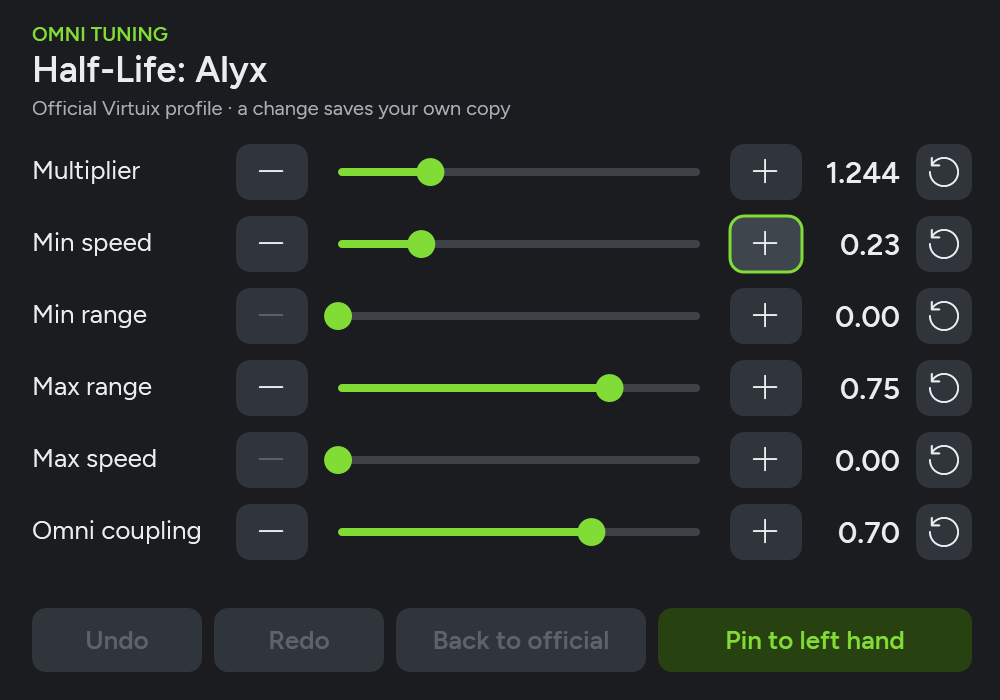
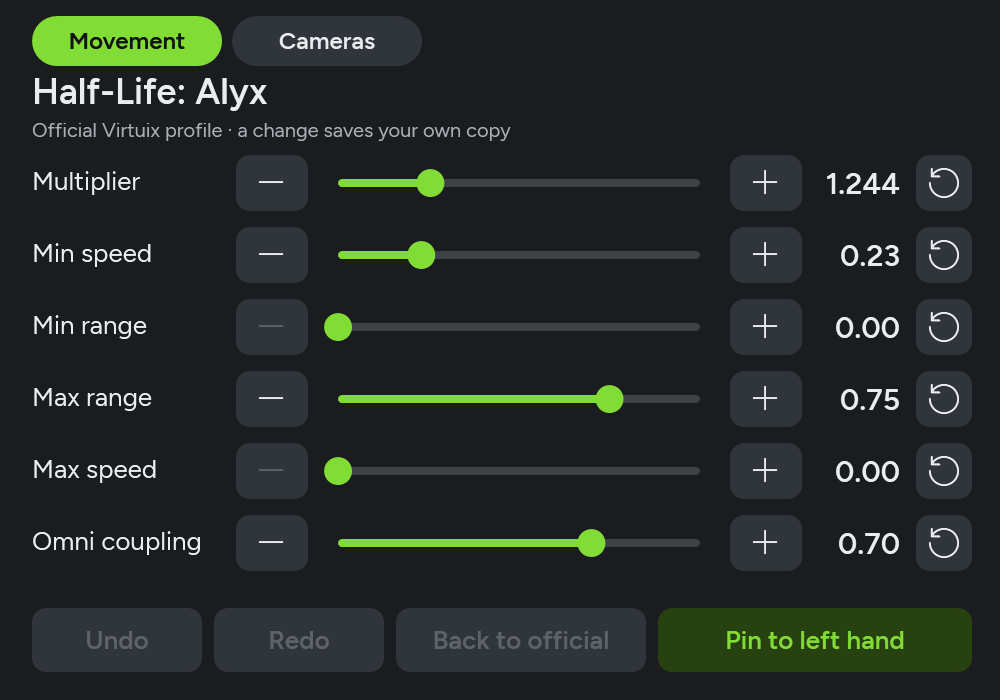
README: Cameras (0.12.0) with screenshots; SteamVR panel with its new tabs

diff --git a/README.md b/README.md
@@ -36,6 +36,12 @@ Windows SmartScreen may warn that it's an unrecognized app, because it isn't cod
 - **Checklist** of what's left for you, like in-game menu settings, which the app ticks off itself where it can.
 - **Tunes movement** in Omni Connect's game profile (live while you play), with presets, undo and **community profiles** that update online. Use **Share…** in the app to add yours to the [shared list](community/profiles.json): no account needed, and it goes through a quick check first.
 - **Tune from inside the headset:** an **Omni tuning** tab in the SteamVR dashboard edits the running game's movement settings, and changes apply within a second or two. **Pin to left hand** keeps the panel on your controller so you can keep walking while you adjust.
+- **Switches the game's camera as you turn on the Omni** (new in 0.12.0): on the **Cameras** page, each camera is a range of directions with its own key combo (e.g. Ctrl + F2), and turning into a range presses it.
+  - A wheel shows your ranges and which way you face. **Drag the dots** on the wheel to move where a range starts and ends.
+  - **Set straight ahead** picks your 0°, and **Record keys** takes a combo straight from the keyboard.
+  - A **switch-back delay** stops it flipping straight back if you turn back too soon, and an **edge buffer** stops flicker on a border.
+  - The **Cameras** tab of the SteamVR panel does the same from inside the headset: start or stop switching, set straight ahead, and move a camera's edges to where you face.
+  - It needs Omni Connect's packet logging, which the page turns on for you.
 - **Launches** the game the right way, starting SteamVR and Omni Connect first and adding any Steam launch options it still needs.
 - **Warns you** about things that stop the Omni from working, such as the wrong OpenXR runtime or Legacy Mode.
 - **Shows you around:** a short tour with pictures opens when the app starts, until you tick "Don't show this when the app opens". It's always under Settings > Help.
@@ -56,6 +62,10 @@ Windows SmartScreen may warn that it's an unrecognized app, because it isn't cod
 ![Movement tuning](screenshots/movement-tuning.png)
 
 ![Omni tuning panel in SteamVR](screenshots/vr-tuning.png)
+
+![Cameras: switch the game's camera by the way you face](screenshots/cameras.png)
+
+![Cameras tab of the SteamVR panel](screenshots/vr-cameras.png)
 
 ## Problems and ideas
 
